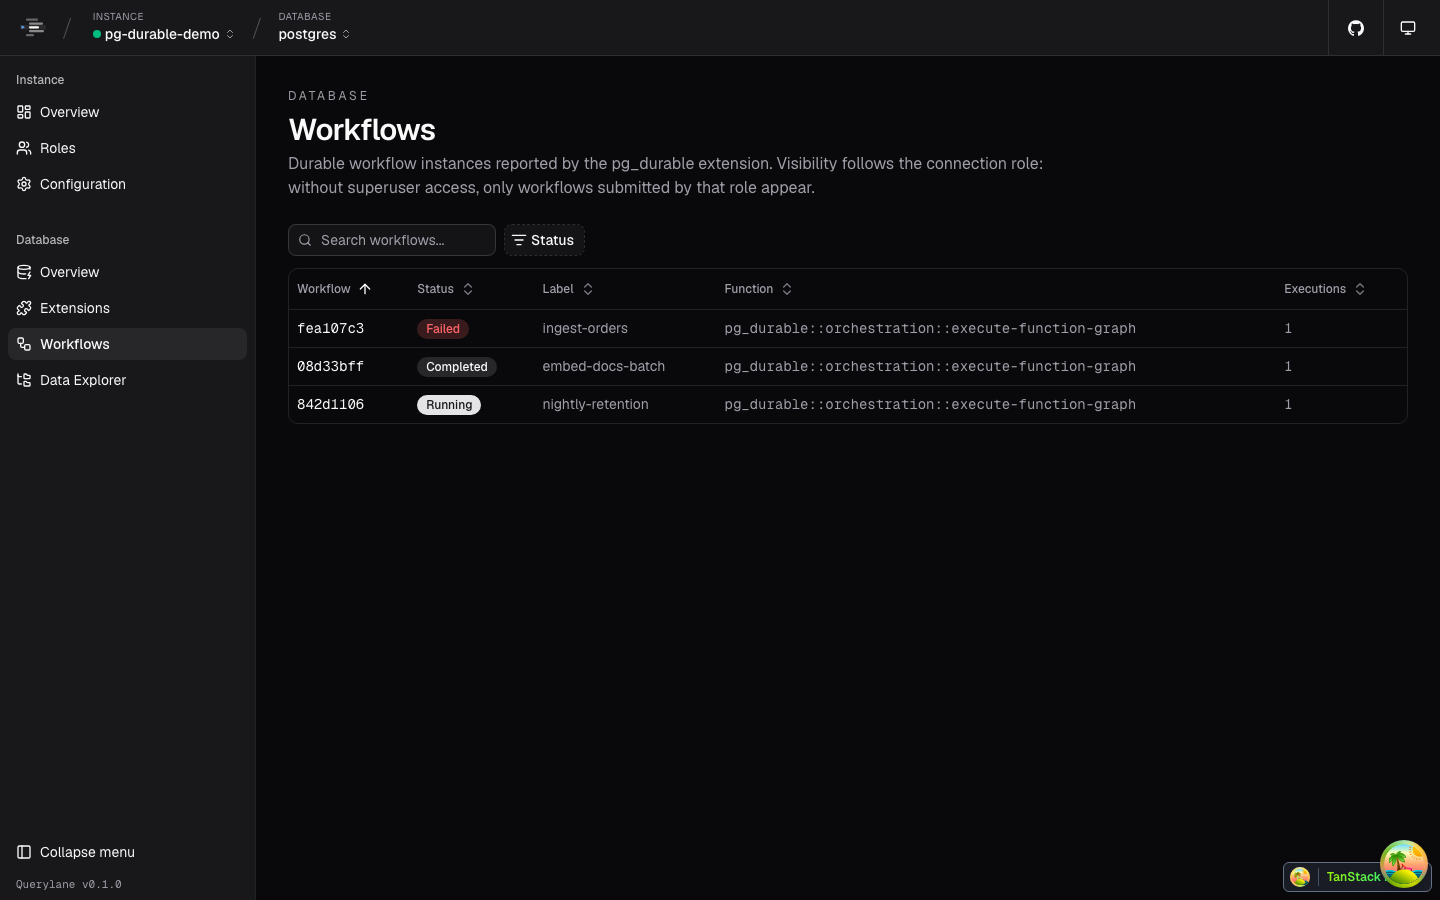
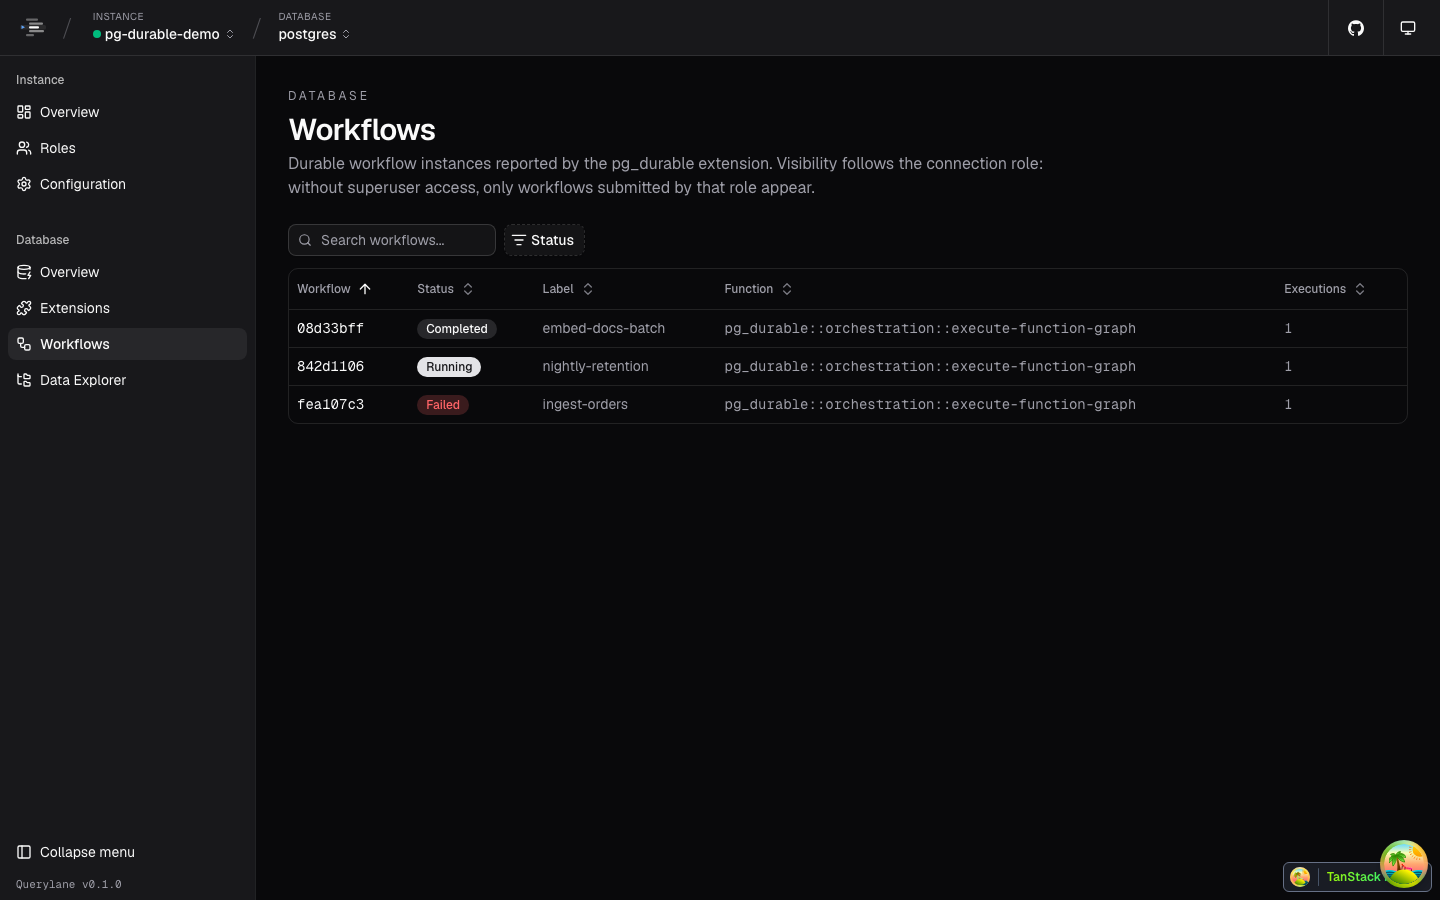
fix(frontend): sort workflow ids as plain text
TanStack Table's alphanumeric heuristic parses the leading digits of
hex instance ids as numbers, producing a surprising row order.

diff --git a/frontend/src/components/console-pages/database-workflows-page.tsx b/frontend/src/components/console-pages/database-workflows-page.tsx
@@ -96,6 +96,9 @@ function workflowColumns({
         <SortableHeader column={column}>Workflow</SortableHeader>
       ),
       id: "workflow",
+      // Hex ids sort surprisingly under the default alphanumeric heuristic
+      // (leading digits parse as numbers), so force plain text ordering.
+      sortFn: "text",
     },
     {
       accessorFn: (row) => workflowStatusLabel(row.status),
